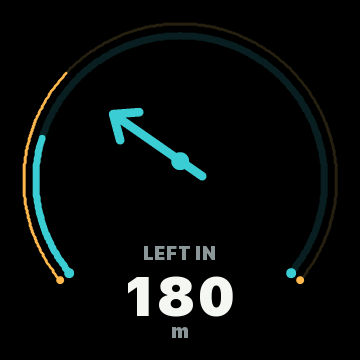
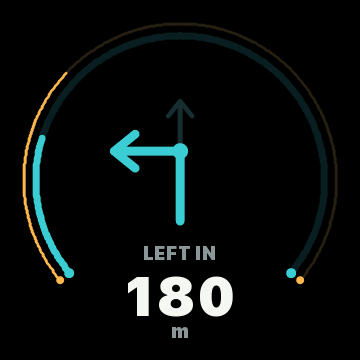
Feature: Left/right bend indicator.

Changed region(s): [[0.3056, 0.275, 0.5806, 0.6417]]

diff --git a/firmware/src/main.cpp b/firmware/src/main.cpp
@@ -594,6 +594,33 @@ void arrowHeadFrame(int tipX, int tipY, float degrees, int length, uint16_t colo
     thickLineFrame(tipX, tipY, wingBX, wingBY, color, thickness);
 }
 
+void turnLeftFrame(int cx, int cy, uint16_t color) {
+    const int thickness = 9;
+    const uint16_t continuation = rgb565(22, 46, 48);
+
+    thickLineFrame(cx, cy + 62, cx, cy - 58, continuation, 5);
+    arrowHeadFrame(cx, cy - 58, 0.0f, 20, continuation, 5);
+
+    thickLineFrame(cx, cy + 62, cx, cy - 8, color, thickness);
+    thickLineFrame(cx, cy - 8, cx - 66, cy - 8, color, thickness);
+    arrowHeadFrame(cx - 66, cy - 8, -90.0f, 28, color, thickness);
+    fillCircleFrame(cx, cy - 8, 8, color);
+}
+
+void bendLeftFrame(int cx, int cy, uint16_t color) {
+    const int radius = 55;
+    const int arcCx = cx - 25;
+    const int arcCy = cy - 5;
+    const int entryX = arcCx + radius;
+    const int entryY = arcCy;
+    const int tipX = arcCx;
+    const int tipY = arcCy - radius;
+
+    thickLineFrame(entryX, entryY + 60, entryX, entryY, color, 9);
+    arcFrame(arcCx, arcCy, radius, 0.0f, 90.0f, color, 9);
+    arrowHeadFrame(tipX, tipY, -90.0f, 28, color, 9);
+}
+
 void uTurnFrame(int cx, int cy, uint16_t color) {
     const int radius = 34;
     const int thickness = 9;
@@ -711,6 +738,17 @@ void demoScreen(int screen) {
         return;
     }
 
+    if (screen == 6) {
+        shellFrame(false);
+        progressFrame(34, 45, true);
+        textFrame(180, INSTRUCTION_Y, "BEND IN", 2, muted);
+        bendLeftFrame(180, 136 + GRAPHIC_OFFSET_Y, cyan);
+        textFrame(180, DISTANCE_Y, "120", 5, white);
+        textFrame(180, UNIT_Y, "m", 2, muted);
+        presentFrame();
+        return;
+    }
+
     shellFrame(screen == 3);
     progressFrame(screen == 1 ? 32 : 44, screen == 1 ? 22 : 58, true);
 
@@ -723,7 +761,11 @@ void demoScreen(int screen) {
     } else {
         const bool left = screen == 1;
         textFrame(180, INSTRUCTION_Y, left ? "LEFT IN" : "CONTINUE FOR", 2, muted);
-        arrowFrame(180, 146 + GRAPHIC_OFFSET_Y, 82, left ? -55.0f : 0.0f, cyan);
+        if (left) {
+            turnLeftFrame(180, 144 + GRAPHIC_OFFSET_Y, cyan);
+        } else {
+            arrowFrame(180, 146 + GRAPHIC_OFFSET_Y, 82, 0.0f, cyan);
+        }
         textFrame(180, DISTANCE_Y, left ? "180" : "420", 5, white);
         textFrame(180, UNIT_Y, "m", 2, muted);
     }
@@ -771,7 +813,7 @@ void loop() {
     const uint32_t now = millis();
 
     if (now - lastSwitch >= 3500) {
-        screen = (screen + 1) % 6;
+        screen = (screen + 1) % 7;
         demoScreen(screen);
         lastSwitch = now;
     }

diff --git a/src/App.cpp b/src/App.cpp
@@ -144,6 +144,33 @@ void drawArrowHead(Display& display, int tipX, int tipY, float degrees, int leng
     display.line(tipX, tipY, wingBX, wingBY, color, thickness);
 }
 
+void drawTurnLeft(Display& display, int cx, int cy, Color color) {
+    const int thickness = 9;
+    const Color continuation{22, 46, 48};
+
+    display.line(cx, cy + 62, cx, cy - 58, continuation, 5);
+    drawArrowHead(display, cx, cy - 58, 0.0f, 20, continuation, 5);
+
+    display.line(cx, cy + 62, cx, cy - 8, color, thickness);
+    display.line(cx, cy - 8, cx - 66, cy - 8, color, thickness);
+    drawArrowHead(display, cx - 66, cy - 8, -90.0f, 28, color, thickness);
+    display.fillCircle(cx, cy - 8, 8, color);
+}
+
+void drawBendLeft(Display& display, int cx, int cy, Color color) {
+    const int radius = 55;
+    const int arcCx = cx - 25;
+    const int arcCy = cy - 5;
+    const int entryX = arcCx + radius;
+    const int entryY = arcCy;
+    const int tipX = arcCx;
+    const int tipY = arcCy - radius;
+
+    display.line(entryX, entryY + 60, entryX, entryY, color, 9);
+    display.arc(arcCx, arcCy, radius, 0.0f, 90.0f, color, 9);
+    drawArrowHead(display, tipX, tipY, -90.0f, 28, color, 9);
+}
+
 void drawUTurn(Display& display, int cx, int cy, Color color) {
     const int radius = 34;
     const int thickness = 9;
@@ -196,6 +223,7 @@ void drawRoundabout(Display& display, int cx, int cy, const NavState& state) {
 
 const char* maneuverLabel(Maneuver maneuver) {
     switch (maneuver) {
+        case Maneuver::BendLeft: return "BEND IN";
         case Maneuver::SlightLeft: return "SLIGHT LEFT IN";
         case Maneuver::TurnLeft: return "LEFT IN";
         case Maneuver::SharpLeft: return "SHARP LEFT IN";
@@ -221,6 +249,7 @@ void maneuverLabelText(const NavState& state, char* buffer, int bufferSize) {
 
 float maneuverAngle(Maneuver maneuver) {
     switch (maneuver) {
+        case Maneuver::BendLeft: return -35.0f;
         case Maneuver::SlightLeft: return -28.0f;
         case Maneuver::TurnLeft: return -55.0f;
         case Maneuver::SharpLeft: return -90.0f;
@@ -299,6 +328,10 @@ void App::renderNavigation(Display& display) {
         char exitLabel[16];
         std::snprintf(exitLabel, sizeof(exitLabel), "EXIT %d", _state.roundaboutExit);
         display.text(cx, 38, exitLabel, 2, Palette::Muted, TextAlign::Center);
+    } else if (_state.maneuver == Maneuver::BendLeft) {
+        drawBendLeft(display, cx, cy - 44 + GraphicOffsetY, Palette::Cyan);
+    } else if (_state.maneuver == Maneuver::TurnLeft) {
+        drawTurnLeft(display, cx, cy - 36 + GraphicOffsetY, Palette::Cyan);
     } else if (_state.maneuver == Maneuver::UTurn) {
         drawUTurn(display, cx, cy - 52 + GraphicOffsetY, Palette::Cyan);
     } else {

diff --git a/sim/main.cpp b/sim/main.cpp
@@ -42,7 +42,7 @@ float splashOpacity(uint32_t elapsedMs) {
 
 SteedPilot::NavState scenarioFor(uint32_t elapsedMs) {
     SteedPilot::NavState state;
-    const uint32_t phase = (elapsedMs / 3500) % 5;
+    const uint32_t phase = (elapsedMs / 3500) % 6;
 
     state.distanceToManeuverMeters = 420 - (int32_t)((elapsedMs / 25) % 390);
     state.distanceToDestinationMeters = 18400 - (int32_t)((elapsedMs / 100) % 2500);
@@ -61,8 +61,11 @@ SteedPilot::NavState scenarioFor(uint32_t elapsedMs) {
         state.maneuver = SteedPilot::Maneuver::TurnLeft;
     } else if (phase == 2) {
         state.mode = SteedPilot::DisplayMode::Navigation;
-        state.maneuver = SteedPilot::Maneuver::UTurn;
+        state.maneuver = SteedPilot::Maneuver::BendLeft;
     } else if (phase == 3) {
+        state.mode = SteedPilot::DisplayMode::Navigation;
+        state.maneuver = SteedPilot::Maneuver::UTurn;
+    } else if (phase == 4) {
         state.mode = SteedPilot::DisplayMode::Destination;
     } else {
         state.mode = SteedPilot::DisplayMode::Calibration;
@@ -146,6 +149,7 @@ int exportScreenshots() {
     ok = exportSplashScreenshot(display, logo, "img/startup-dtc.png") && ok;
     ok = exportScreenshot(app, display, navigationState(SteedPilot::Maneuver::Continue, 420), "img/navigation-ahead.png") && ok;
     ok = exportScreenshot(app, display, navigationState(SteedPilot::Maneuver::TurnLeft, 180), "img/navigation-left.png") && ok;
+    ok = exportScreenshot(app, display, navigationState(SteedPilot::Maneuver::BendLeft, 120), "img/navigation-bend-left.png") && ok;
     ok = exportScreenshot(app, display, navigationState(SteedPilot::Maneuver::UTurn, 90), "img/navigation-u-turn.png") && ok;
     ok = exportScreenshot(app, display, roundaboutState(), "img/navigation-roundabout.png") && ok;
     ok = exportScreenshot(app, display, speedingState(), "img/navigation-speed-warning.png") && ok;

diff --git a/include/SteedPilot/NavState.h b/include/SteedPilot/NavState.h
@@ -23,6 +23,7 @@ enum class DisplayMode {
 
 enum class Maneuver {
     Continue,
+    BendLeft,
     SlightLeft,
     TurnLeft,
     SharpLeft,

diff --git a/README.md b/README.md
@@ -99,6 +99,7 @@ The desktop simulator can export reference screenshots for README updates and vi
 
 ![Navigation ahead](img/navigation-ahead.png)
 ![Navigation left](img/navigation-left.png)
+![Navigation bend left](img/navigation-bend-left.png)
 ![Navigation U-turn](img/navigation-u-turn.png)
 ![Navigation roundabout](img/navigation-roundabout.png)
 ![Navigation speed warning](img/navigation-speed-warning.png)